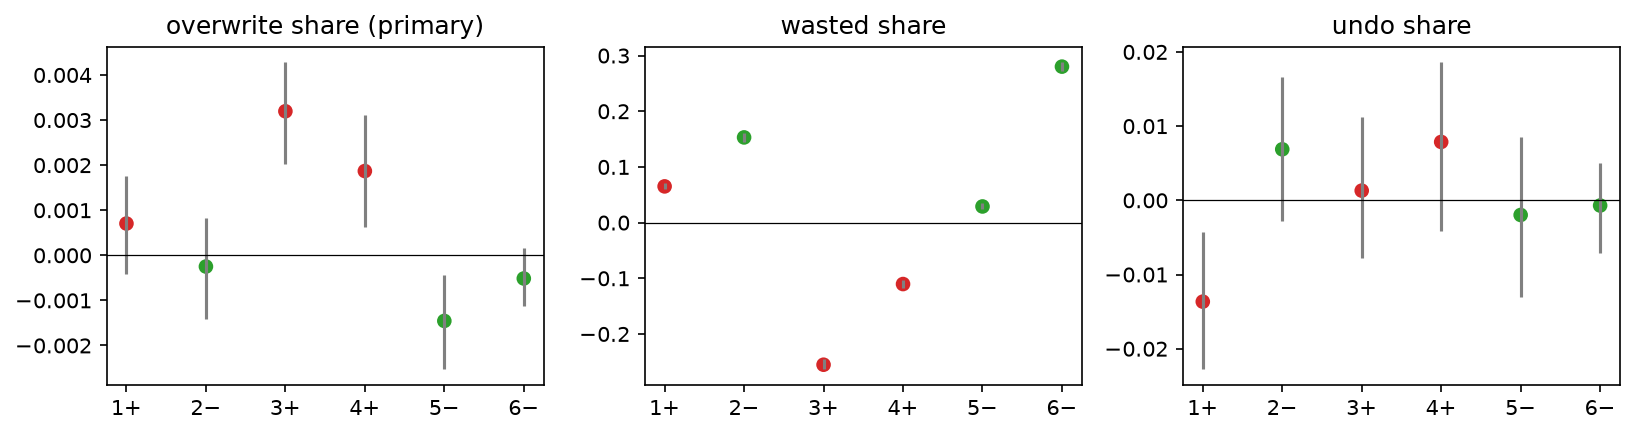
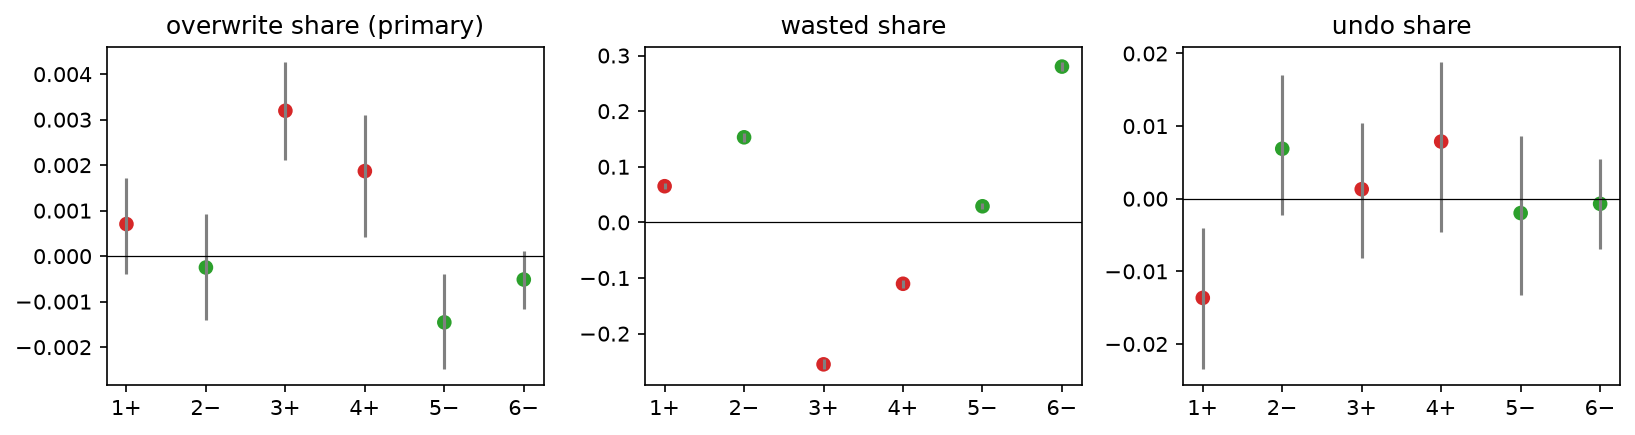
Chapter 3: complement-scale effect, mechanical prediction, placebo-adjusted check, undo split; chapter 2: hour-block memory null
- own-pixel changes (the complement of the overwrite share) with counts and odds ratios: about halved after tightenings
- mechanical prediction from the share of colours still intact at the placer's next placement explains a small part;
  residual 5/6 (p = 0.062), placebo-adjusted 4/6 (p = 0.125); both exploratory; not read as behaviour change
- the three failed pre-trend checks and the data-familiarity caveat are now in the main text
- undo: only 5.4% restore one's own colour; the rest is defence by other accounts
- wasted share stays exploratory: no fresh 2017 switches to confirm on
- memory: shuffling within hour-of-day blocks halves M's excess (about +0.01 left)

diff --git a/src/rplace17/__init__.py b/src/rplace17/__init__.py
@@ -215,3 +215,26 @@ def kaplan_meier(duration, event):
     deaths = np.add.reduceat(event.astype(np.int64), first_idx)
     keep = deaths > 0
     return times[keep], np.cumprod(1 - deaths[keep] / at_risk[keep])
+
+
+def with_timing(h):
+    """Add to a pixel_history() frame: t_end, when the colour state a non-wasted placement set was next changed (null if
+    never), and t_next_own, the placing account's next placement anywhere (null if none). Used for the mechanical
+    prediction in chapter 3."""
+    px = pl.col("x").cast(pl.Int32) * SIZE + pl.col("y").cast(pl.Int32)
+    h = h.with_row_index("_i").with_columns(px.alias("_pix"))
+    ends = (h.filter(~pl.col("wasted")).sort("_pix", "t_us", "_i")
+              .with_columns(pl.col("t_us").shift(-1).over("_pix").alias("t_end")).select("_i", "t_end"))
+    h = h.join(ends, on="_i", how="left")
+    h = (h.sort("user_id", "t_us", "_i").with_columns(pl.col("t_us").shift(-1).over("user_id").alias("t_next_own"))
+          .sort("_i"))
+    return h.drop("_i", "_pix")
+
+
+def own_and_intact(w):
+    """For one window of with_timing() rows: own-pixel colour changes (count, of colour changes after the first), and
+    the share of colour states set in the window that were still intact at the placer's next placement."""
+    cc = w.filter(~pl.col("wasted") & ~pl.col("first"))
+    s = w.filter(~pl.col("wasted") & pl.col("t_next_own").is_not_null())
+    intact = (s["t_end"].is_null() | (s["t_end"] > s["t_next_own"])).mean()
+    return int((~cc["overwrite"]).sum()), cc.height, float(intact)
